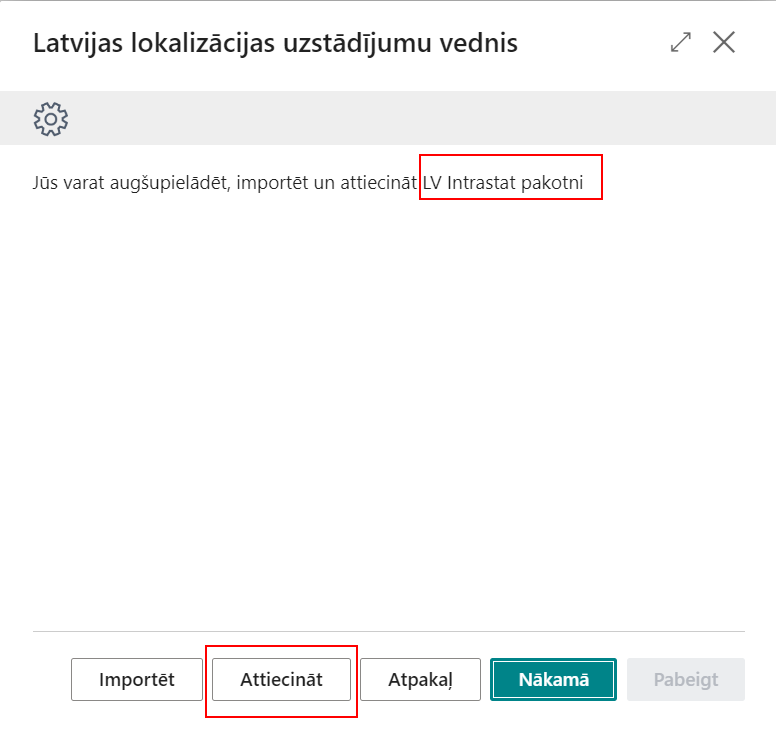
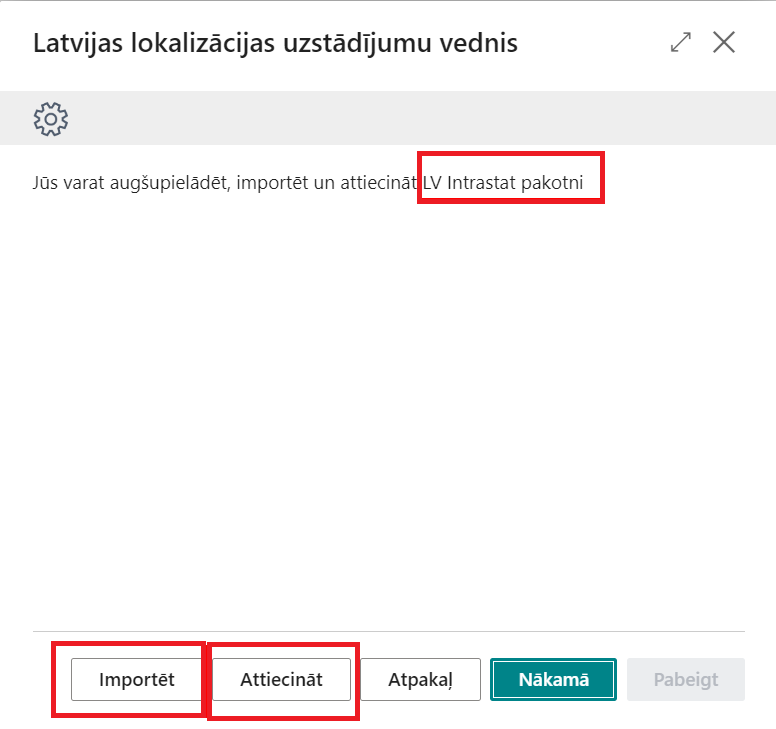
Automated Release lv-LV

diff --git a/lv-LV/articles/intrastat/intrastat_new.html b/lv-LV/articles/intrastat/intrastat_new.html
@@ -90,10 +90,10 @@
 <li><p>Rakstiet <em>Iestatīšana ar palīdzību</em> un izvēlieties to no saraksta <em>Administrēšana</em>
 <img src="images/intrastat_new001.png" alt="alt"></p>
 </li>
-<li><p>Uzklikšķinite uz procesa <em>Company Setup with Latvian Localization</em>
+<li><p>Uzklikšķiniet uz procesa <em>Uzņēmuma iestatīšana ar Latvijas lokalizāciju</em>
 <img src="images/intrastat_new002.png" alt="alt"></p>
 </li>
-<li><p>Spiediet uz pogas <em>Nākamā</em> līdz parādīsies LV Intrastat procesa vednis un tad spiediet pogu <em>Attiecināt</em>, lai tiktu ielādēta konfigurācijas pakotne ar visiem nepieciešamajiem Intrastat uzstādījumiem
+<li><p>Spiediet uz pogas <em>Nākamā</em> līdz parādīsies LV Intrastat procesa vednis. Spiediet pogu <em>Importēt</em> un ielādējiet konfigurācijas pakotni. Tad spiediet pogu <em>Attiecināt</em>, lai tiktu ielādēta konfigurācijas pakotne ar visiem nepieciešamajiem Intrastat uzstādījumiem
 <img src="images/intrastat_new003.png" alt="alt"></p>
 </li>
 </ol>
@@ -110,7 +110,8 @@
 </ol>
 <blockquote>
 <p><strong>SVARĪGI!!</strong>
-Ja visi nepieciešamie Intrastat iestatījumi jau ir veikti iepriekš, tad nav nepieciešams ielādēt konfigurācijas pakotni, bet pietiek tikai ielādēt pakotni ar datu apmaiņas definīcijām, ko var izdarīt, noklikšķinot uz šīs saites:</p>
+Ja visi nepieciešamie Intrastat iestatījumi jau ir veikti iepriekš, tad nav nepieciešams ielādēt konfigurācijas pakotni, bet <em>Datu apm. definīcijas</em> lapā ir nepieciešams ielādēt failu ar Intrastat datu apmaiņas definīcijām.
+<img src="images/intrastat_new0066.png" alt="alt"></p>
 </blockquote>
 <h1 id="uzstādījumi">Uzstādījumi</h1>
 <p>Pēc konfigurācijas pakotnes vai datu apmaiņas definīciju pakotnes attiecināšanas, ir jāveic uzstādījumi sekojošos logos:</p>
